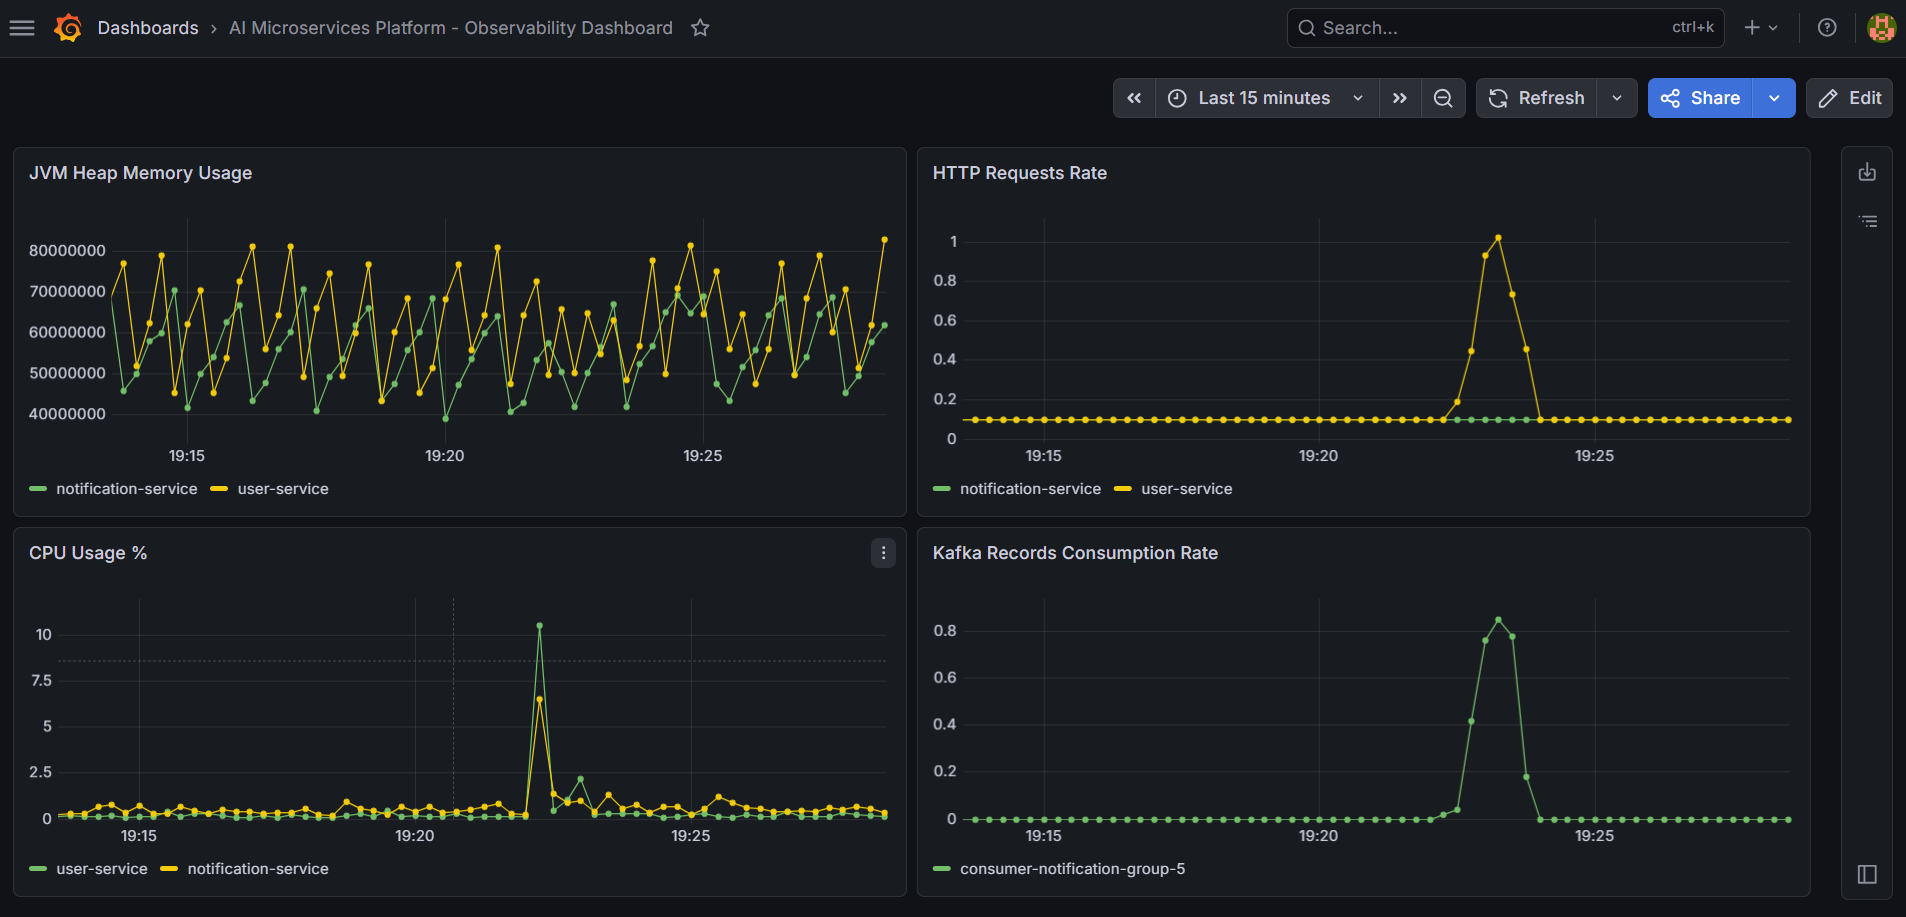
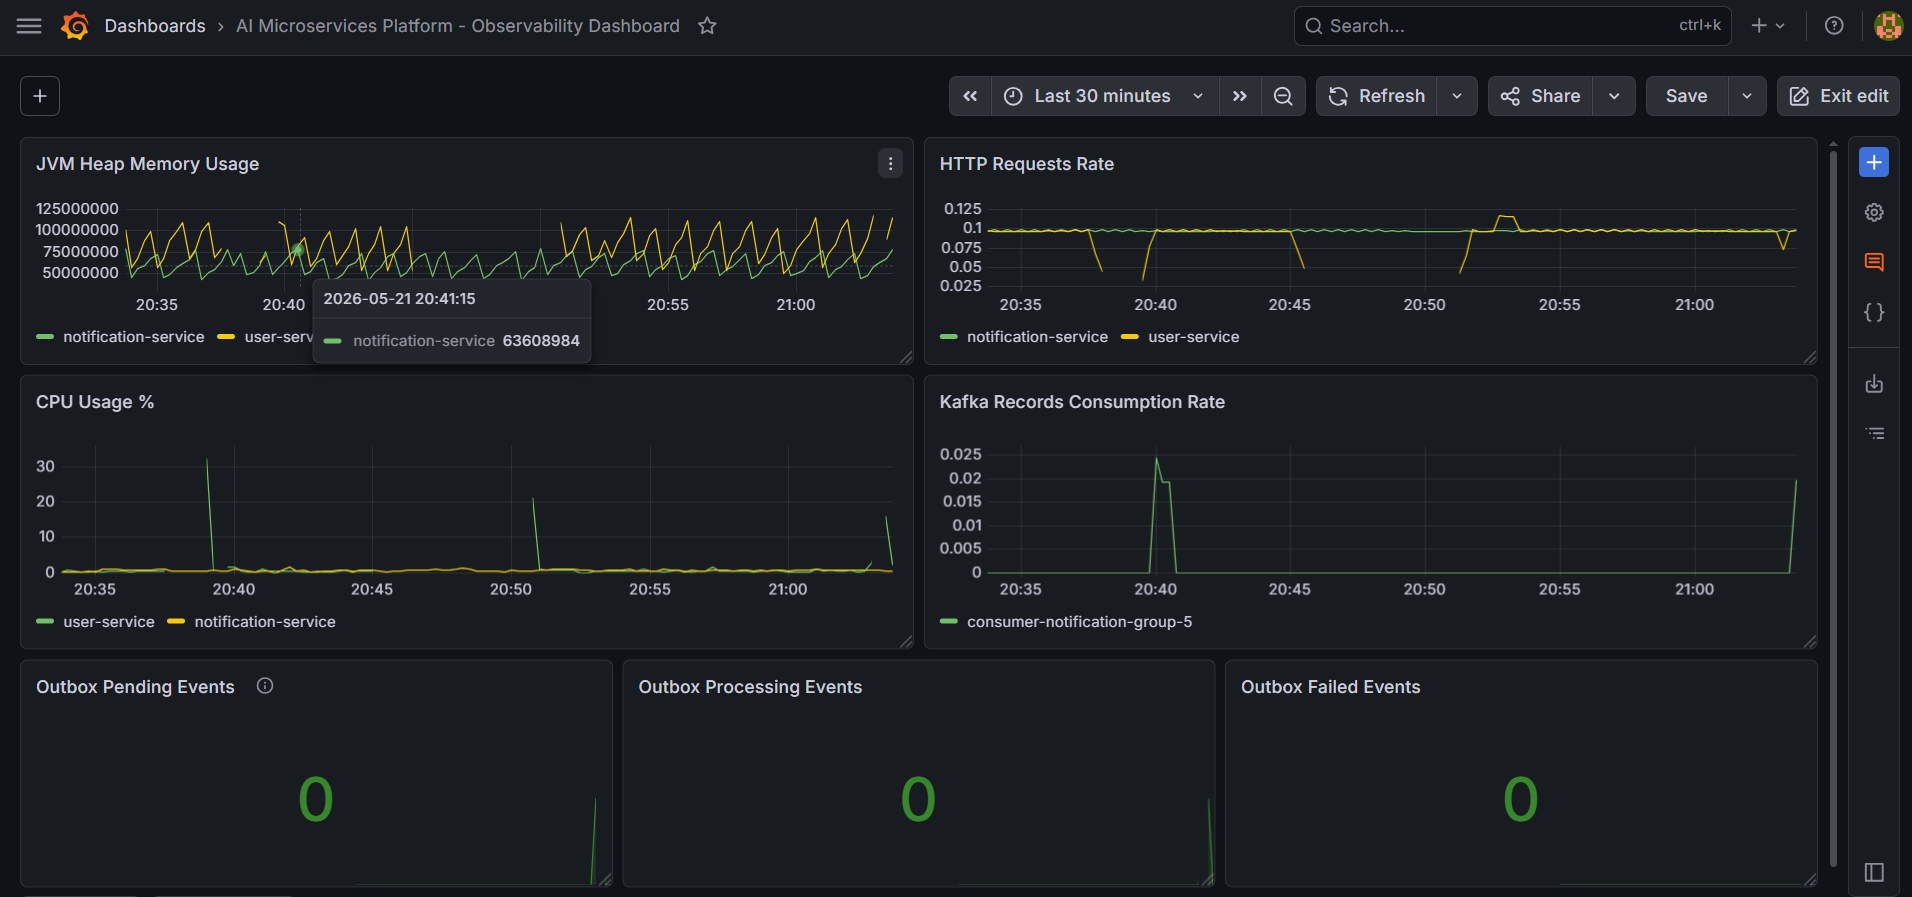
docs(readme): refine platform observability documentation
- Added observability dashboard and Loki centralized logging screenshots
- Improved transactional outbox terminology and documentation structure
- Refined centralized logging formatting for better Markdown rendering
- Updated project positioning to emphasize distributed systems engineering
- Enhanced README clarity around operational reliability and traceability

diff --git a/README.md b/README.md
@@ -210,7 +210,7 @@ Grafana Dashboards & Explore
 
 ### Dashboard Snapshot
 
-![Observability Dashboard](./docs/observability-dashboard.png)
+![Observability Dashboard](docs/observability-dashboard.png)
 
 ### Monitored Metrics
 
@@ -230,6 +230,7 @@ Grafana Dashboards & Explore
 ### Centralized Logging
 
 The platform supports centralized log aggregation using Loki and Promtail for distributed debugging and cross-service traceability.
+
 ![Loki Centralized Logging](docs/loki-centralized-logging.png)
 ### Logging Flow
 
@@ -265,7 +266,7 @@ http://localhost:9080
 ```
 
 ---
-### Outbox Operational Metrics
+### Transactional Outbox Operational Metrics
 
 The platform exposes custom Micrometer metrics for monitoring transactional outbox health and Kafka publishing reliability.
 
@@ -385,6 +386,6 @@ These queries enable cross-service distributed request tracing through Kafka wor
 
 ## 🤝 Contributing
 
-This project is built as part of a hands-on learning journey into distributed systems and microservices.
+This project demonstrates modern distributed systems architecture and operational engineering patterns using event-driven microservices.
 
 Feel free to explore, fork, and improve!